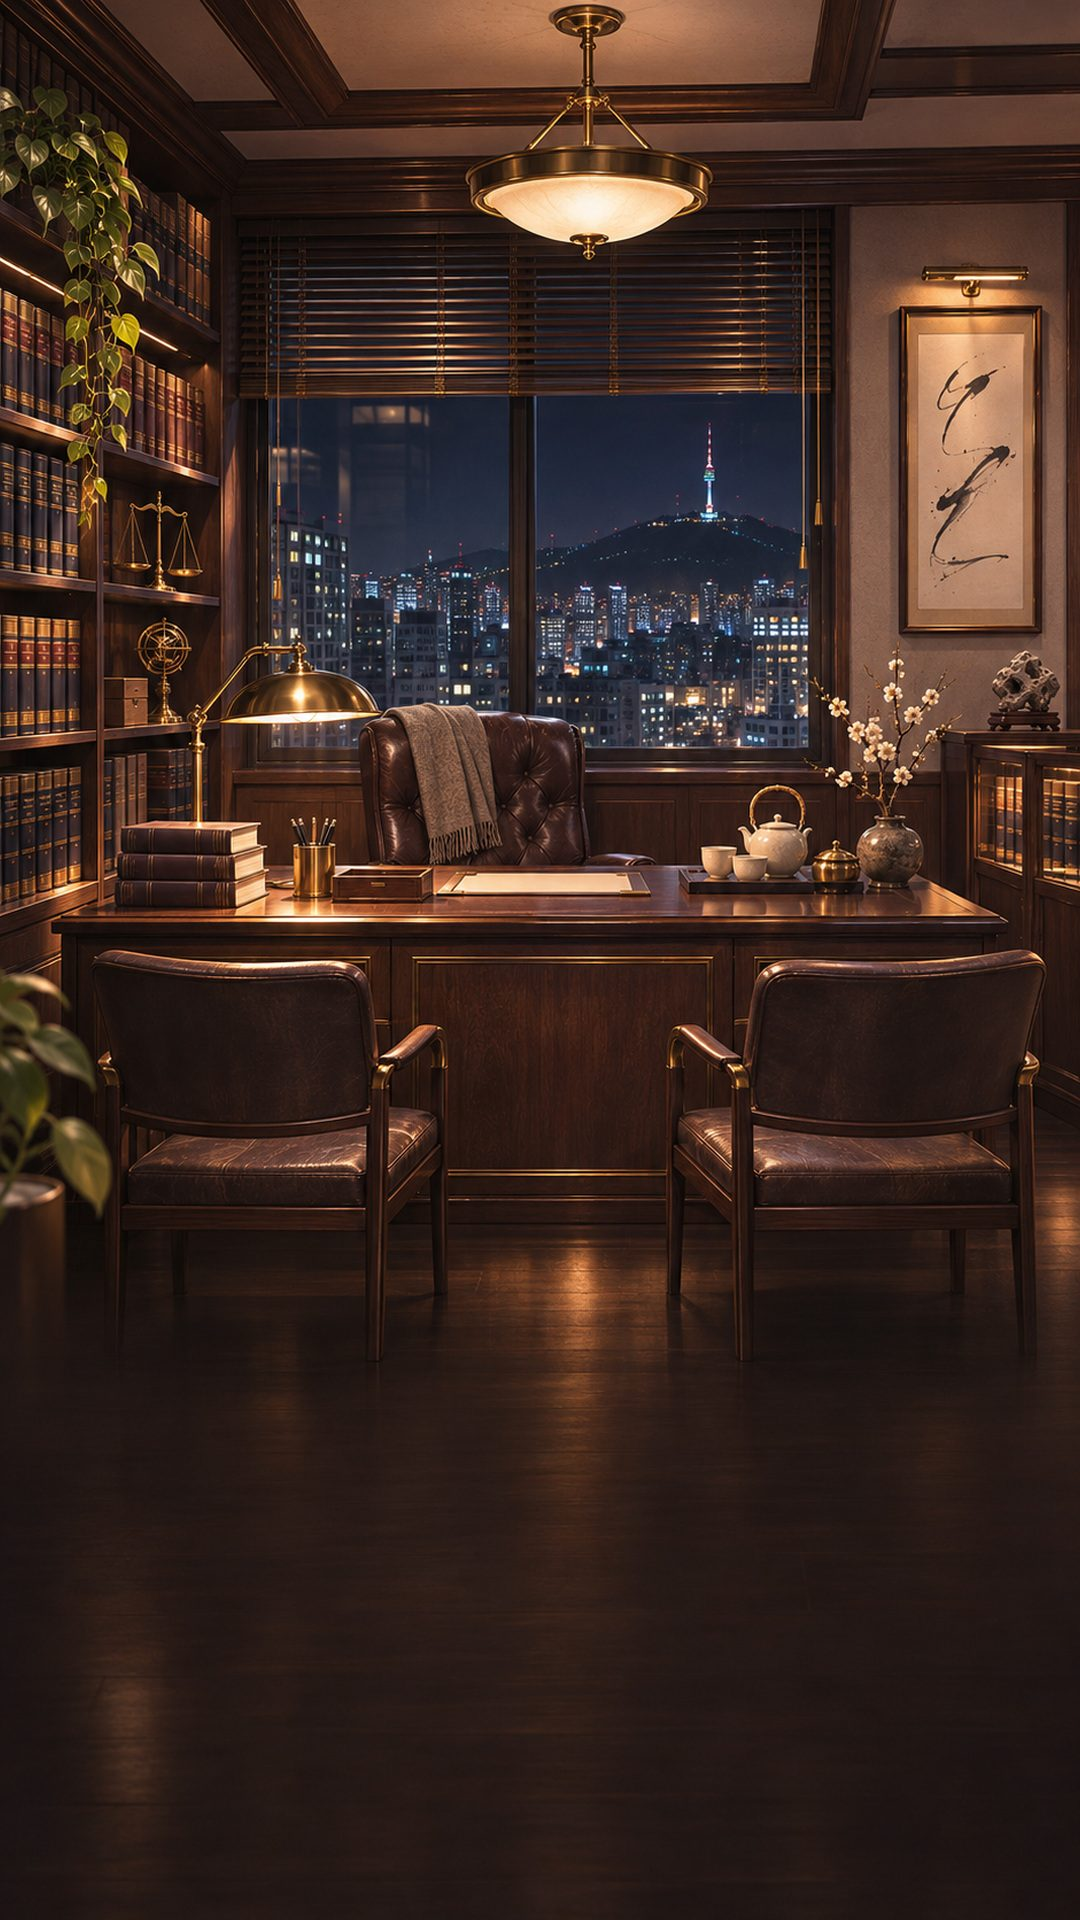
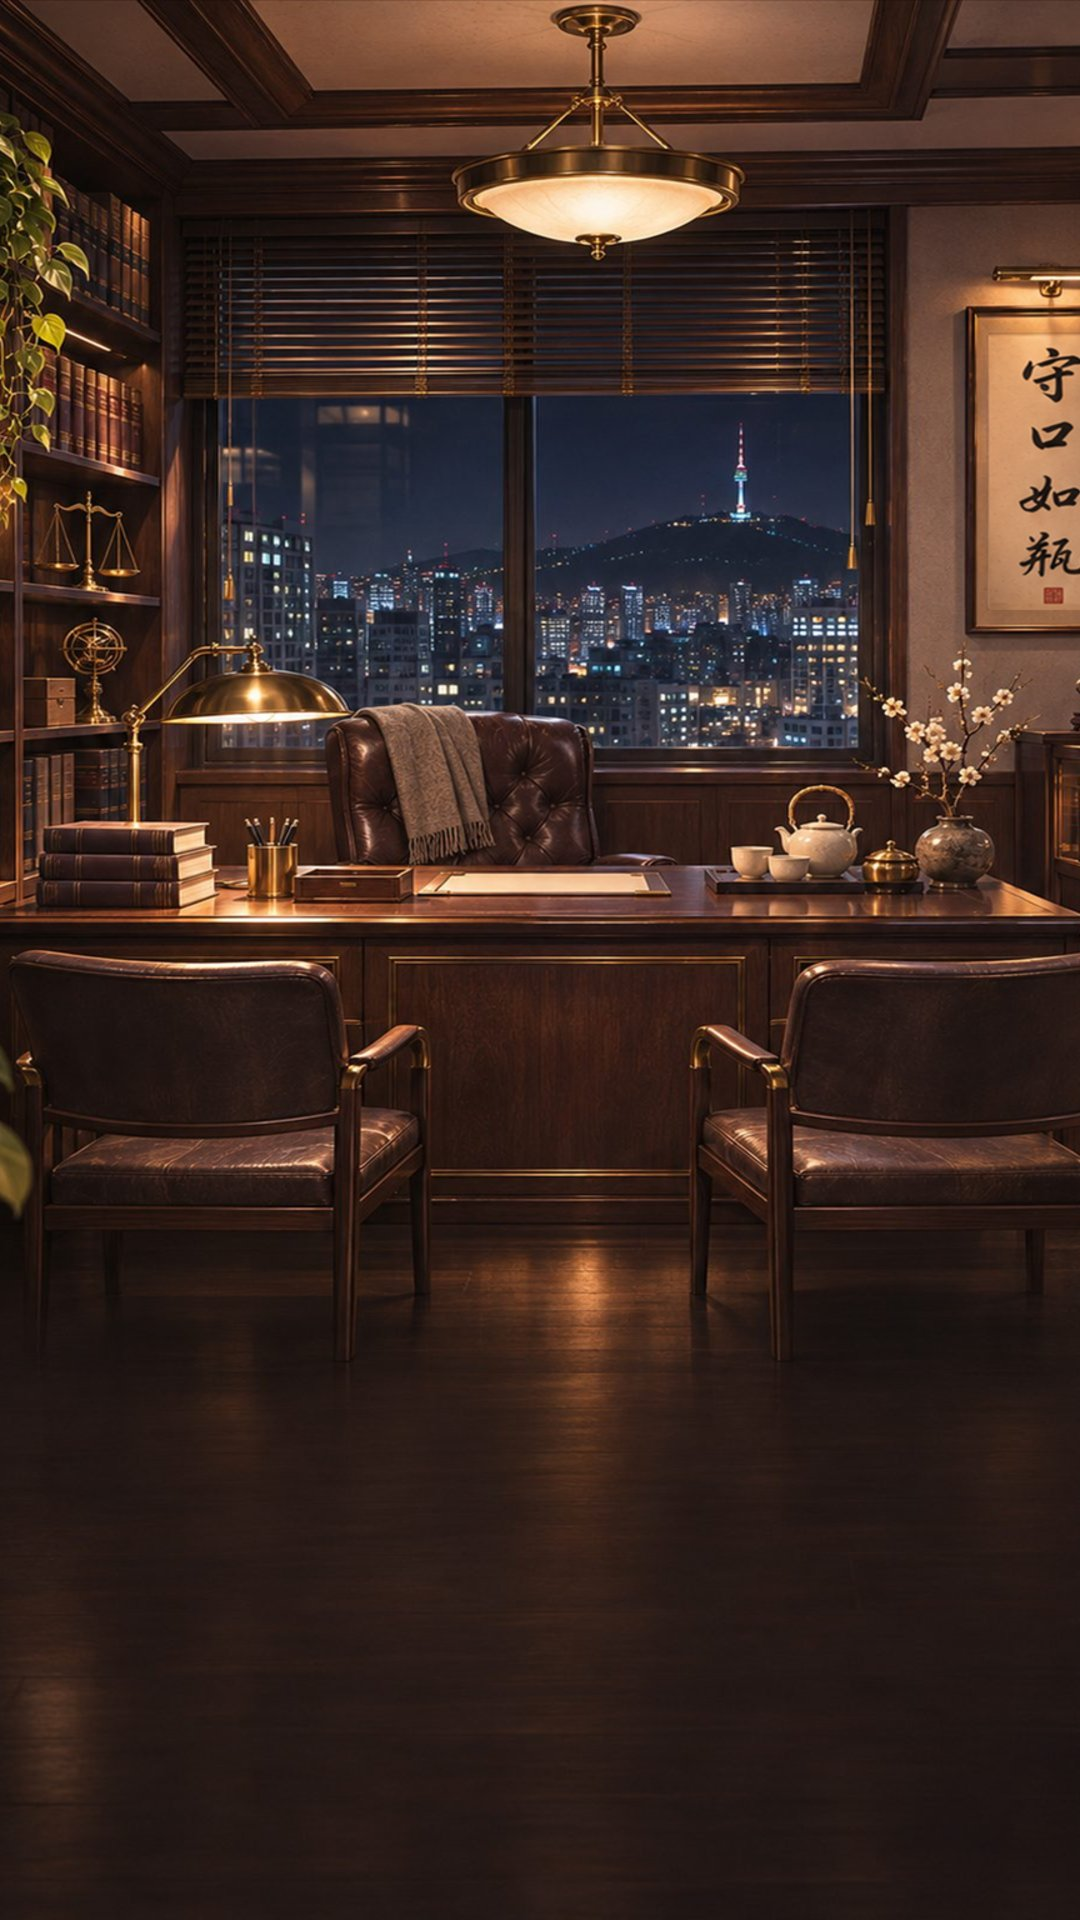
수구여병 액자 그림 두 장 교체, 회상 장면에서 대화 상대 얼굴 숨김

diff --git a/sw.js b/sw.js
@@ -2,7 +2,7 @@
 // 앱(화면 파일)은 배포할 때마다 새 판으로 바꾸고, 그림(assets/)은 버전과 상관없는 따로 된 저장소에 둔다.
 // 그래서 배포해도 이미 받은 그림은 다시 받지 않는다. 그림은 저장해 둔 것을 바로 보여 주고, 뒤에서 바뀌었는지만 확인한다.
 // 같은 이름의 그림을 다시 그려 바꿨을 때도 다음 실행부터 새 그림이 보인다(뒤에서 확인한 결과).
-const CACHE = "truth-v1796130000000";
+const CACHE = "truth-v1796140000000";
 const IMG = "truth-img-3";
 const PRECACHE = ["./","./index.html","./story.html","./manifest.webmanifest","./icon-192.png","./icon-512.png","./apple-touch-icon.png","./assets/court-2.webp","./assets/end-close-f.jpg","./assets/end-close-m.jpg","./assets/end-top-f.jpg","./assets/end-top-m.jpg","./assets/frame-choice.png","./assets/frame-modal.webp","./assets/hero-f.webp","./assets/hero-m.webp","./assets/judge-close.webp","./assets/judge.webp","./assets/office-0-f.jpg","./assets/office-0-m.jpg","./assets/office-1-f.jpg","./assets/office-1-m.jpg","./assets/office-2-f.jpg","./assets/office-2-m.jpg","./assets/office-3-f.jpg","./assets/office-3-m.jpg","./assets/opp.webp","./assets/pros.webp","./assets/stamp-lose.png","./assets/stamp-win.png","./assets/title.webp","./assets/cut/f-c1.webp","./assets/cut/f-c2.webp","./assets/cut/f-c3.webp","./assets/cut/f-c4.webp","./assets/cut/f-c5.webp","./assets/cut/f-c6.webp","./assets/cut/f-c7.webp","./assets/cut/f-c8.webp","./assets/cut/f-chef.webp","./assets/cut/f-exec.webp","./assets/cut/f-pd.webp","./assets/cut/f-ptf.webp","./assets/cut/f-ptm.webp","./assets/cut/f-pw.webp","./assets/cut/f-rep.webp","./assets/cut/f-vic.webp","./assets/cut/m01.webp","./assets/cut/m02.webp","./assets/cut/m03.webp","./assets/cut/m04.webp","./assets/cut/m05.webp","./assets/cut/m06.webp","./assets/cut/m07.webp","./assets/cut/m08.webp","./assets/cut/m09.webp","./assets/cut/m10.webp","./assets/cut/m11.webp","./assets/cut/m12.webp","./assets/cut/m13.webp","./assets/cut/m14.webp","./assets/cut/m15.webp","./assets/cut/m16.webp","./assets/cut/m18.webp","./assets/cut/m19.webp","./assets/cut/m20.webp","./assets/cut/m21.webp","./assets/cut/m22.webp","./assets/cut/m23.webp","./assets/cut/m24.webp","./assets/cut/m25.webp","./assets/cut/m26.webp","./assets/cut/m27.webp","./assets/cut/m28.webp","./assets/cut/m29.webp","./assets/cut/m30.webp","./assets/cut/n20f1.webp","./assets/cut/n20f2.webp","./assets/cut/n20f3.webp","./assets/cut/n20f4.webp","./assets/cut/n20m1.webp","./assets/cut/n20m2.webp","./assets/cut/n20m3.webp","./assets/cut/n20m4.webp","./assets/cut/n30f1.webp","./assets/cut/n30f2.webp","./assets/cut/n30f3.webp","./assets/cut/n30f4.webp","./assets/cut/n30m1.webp","./assets/cut/n30m2.webp","./assets/cut/n30m3.webp","./assets/cut/n30m4.webp","./assets/cut/n40f1.webp","./assets/cut/n40f2.webp","./assets/cut/n40f3.webp","./assets/cut/n40f4.webp","./assets/cut/n40m1.webp","./assets/cut/n40m2.webp","./assets/cut/n40m3.webp","./assets/cut/n40m4.webp","./assets/cut/n50f1.webp","./assets/cut/n50f2.webp","./assets/cut/n50f3.webp","./assets/cut/n50f4.webp","./assets/cut/n50m1.webp","./assets/cut/n50m2.webp","./assets/cut/n50m3.webp","./assets/cut/n50m4.webp","./assets/cut/n60f1.webp","./assets/cut/n60f2.webp","./assets/cut/n60f3.webp","./assets/cut/n60f4.webp","./assets/cut/n60m1.webp","./assets/cut/n60m2.webp","./assets/cut/n60m3.webp","./assets/cut/n60m4.webp","./assets/expr/hero-f_confident.webp","./assets/expr/hero-f_flustered.webp","./assets/expr/hero-f_neutral.webp","./assets/expr/hero-f_relieved.webp","./assets/expr/hero-f_serious.webp","./assets/expr/hero-m_confident.webp","./assets/expr/hero-m_flustered.webp","./assets/expr/hero-m_neutral.webp","./assets/expr/hero-m_relieved.webp","./assets/expr/hero-m_serious.webp","./assets/expr/opponent_confident.webp","./assets/expr/opponent_flustered.webp","./assets/expr/opponent_neutral.webp","./assets/expr/opponent_serious.webp","./assets/expr/prosecutor_confident.webp","./assets/expr/prosecutor_flustered.webp","./assets/expr/prosecutor_neutral.webp","./assets/expr/prosecutor_serious.webp","./assets/ops-end/grade-s-m.jpg","./assets/ops-end/grade-s-f.jpg","./assets/ops-end/grade-a-m.jpg","./assets/ops-end/grade-a-f.jpg","./assets/ops-end/grade-b-m.jpg","./assets/ops-end/grade-b-f.jpg","./assets/ops-end/grade-c-m.jpg","./assets/ops-end/grade-c-f.jpg","./assets/ops-end/grade-d-m.jpg","./assets/ops-end/grade-d-f.jpg","./assets/ops-end/newspaper.jpg","./assets/op/o1-f.webp","./assets/op/o1-m.webp","./assets/op/o2-f.webp","./assets/op/o2-m.webp","./assets/op/o3.webp","./assets/op/s1.webp","./assets/op/s2.webp","./assets/op/s3.webp","./assets/staff/investigator_female_20s.webp","./assets/staff/investigator_male_30s.webp","./assets/staff/investigator_male_40s.webp","./assets/staff/lawyer_female_20s.webp","./assets/staff/lawyer_female_30s.webp","./assets/staff/lawyer_female_30s_02.webp","./assets/staff/lawyer_female_30s_03.webp","./assets/staff/lawyer_female_30s_04.webp","./assets/staff/lawyer_male_20s_01.webp","./assets/staff/lawyer_male_30s.webp","./assets/staff/lawyer_male_30s_02.webp","./assets/staff/lawyer_male_30s_03.webp","./assets/staff/lawyer_male_30s_04.webp","./assets/staff/manager_female_40s.webp","./assets/staff/manager_male_30s.webp","./assets/staff/manager_male_50s.webp","./assets/staff/secretary_female_20s_01.webp","./assets/staff/secretary_female_20s_02.webp","./assets/staff/secretary_male_30s.webp"];
 const isAsset = u => /\/assets\//.test(new URL(u, self.location.href).pathname);

diff --git a/story.html b/story.html
@@ -734,7 +734,7 @@ function pcLog() {
 function say(lines, then, who = null) {
   lines = lines.slice();
   if (!lines.length) return then();
-  let i = 0, click = null, pic = null;
+  let i = 0, click = null, pic = null, fb = false;
   const show = () => {
     if (i >= lines.length) { document.onclick = null; return then(); }
     // 음악 표시 줄("♪sad", "♪tense2", "♪normal"): 곡만 바꾸고 화면에는 띄우지 않는다
@@ -742,14 +742,14 @@ function say(lines, then, who = null) {
     // 번쩍임 표시 줄("⚡white", "⚡red"): 화면만 번쩍이고 넘어간다
     if (mk[0] === "⚡") { flash(mk.slice(1) || "white"); i++; return show(); }
     // 회상 표시 줄: "◐제목|부제|배경" → 검은 화면에 제목을 띄우고 꿈 화면(바랜 색)으로, "◑" → 원래 배경으로 돌아옴
-    if (mk[0] === "◐") { const [tt, sb, bk] = mk.slice(1).split("|"); i++; say.prevBg = lastBg; return fade(() => { document.documentElement.classList.add("dream"); setBg(bgOf(bk)); show(); document.onclick = click; }, { title: tt, sub: sb || "", slow: true }); }
+    if (mk[0] === "◐") { const [tt, sb, bk] = mk.slice(1).split("|"); i++; fb = true; say.prevBg = lastBg; return fade(() => { document.documentElement.classList.add("dream"); setBg(bgOf(bk)); show(); document.onclick = click; }, { title: tt, sub: sb || "", slow: true }); }
     // "◎배경": 꿈·회상 화면은 그대로 두고 배경만 바꾼다
     if (mk[0] === "◎") { const bk = mk.slice(1); i++; return fade(() => { setBg(bgOf(bk)); show(); document.onclick = click; }); }
-    if (mk[0] === "◑") { i++; return fade(() => { document.documentElement.classList.remove("dream"); setBg(say.prevBg || lastBg); show(); document.onclick = click; }); }
+    if (mk[0] === "◑") { i++; fb = false; return fade(() => { document.documentElement.classList.remove("dream"); setBg(say.prevBg || lastBg); show(); document.onclick = click; }); }
     // 그림 표시 줄("▣ev/h1-dongha.webp"): 다음 대사부터 얼굴 자리에 그림을 띄운다. "▣"만 쓰면 그림을 내린다
     if (mk[0] === "▣") { pic = mk.slice(1) || null; i++; return show(); }
     if (mk[0] === "♪") { const m = mk.slice(1) === "normal" ? themeOf() : mk.slice(1); if (TRACKS[m]) bgm(m, true); i++; return show(); }
-    const [n, t0, f, cont] = lines[i], face = f || who;
+    const [n, t0, f, cont] = lines[i], face = f || (fb ? null : who); // 회상 안에서는 지금 대화 상대 얼굴을 띄우지 않는다
     let t = t0;
     if (n && G && !cont) G.log.push([n, t]);
     view(`${G && G.prologue ? '<div class="top"></div>' : topBar()}<div class="stage${pic ? " picon" : ""}">${pic ? `<img class="pic" src="${A}story/${pic}" alt="">` : face ? `<img class="who" src="${cut(face)}" alt="">` : ""}</div>
@@ -1914,7 +1914,7 @@ CH.f1 = { hero: "f", tags: G => [G.doneIds.pot && "pot", G.doneIds.sold && "sold
     ["고소인의 처벌 의사에 대하여|고소인이 상자만 찾으면 처벌은 원하지 않는다고 했대요.", ["…그래요?", [null, "방재호의 손가락이 무릎 위에서 잠깐 멈췄다."], "그게 어디 있는지 알면 제가 여기 앉아 있겠어요. 회사에서도 못 찾은 걸요.", "그 상자가 그렇게 급한가. 경찰서에서도 얼굴이 하얗더니."], [], ["t:stmt"]]],
   pre: [2, 4, 5],
   hireLine: ["고맙습니다, 변호사님.", "약식명령 받은 거랑 회사에 낸 경위서, 여기 다 가져왔습니다.", [null, "내게 고맙다고 인사하는 방재호의 얼굴을 보자 그 사람이 떠올랐다."], // 윤서연 아버지 회상(11-20): 이름표는 그 사람. 정체는 여주 4장 회상에서 드러난다
-    [null, "◐||f4-dad-kitchen"], [null, "식탁 위에 빚 독촉장이 쌓여 있었다. 엄마는 방에서 나오지 않았다."], ["윤서연", "당신이 우리 집안을 파괴했어."], ["그 사람", "미안하다, 서연아.", A + "cut/f-father.webp"], ["윤서연", "난 당신을 절대 용서하지 않아. 두고 봐."], [null, "◑"], [null, "그 사람도 늘 저런 얼굴로 미안하다고 했다. 미안하다는 말만 하다가 빚만 남기고 갔다. 짜증 나는 사람이었지."]],
+    [null, "◐||f4-dad-kitchen"], [null, "식탁 위에 빚 독촉장이 쌓여 있었다. 엄마는 방에서 나오지 않았다."], ["윤서연", "당신이 우리 집안을 파괴했어.", A + "hero-f.webp"], ["그 사람", "미안하다, 서연아.", A + "cut/f-father.webp"], ["윤서연", "난 당신을 절대 용서하지 않아. 두고 봐.", A + "hero-f.webp"], [null, "◑"], [null, "그 사람도 늘 저런 얼굴로 미안하다고 했다. 미안하다는 말만 하다가 빚만 남기고 갔다. 짜증 나는 사람이었지."]],
   refuseLine: "…명단에서 넘어온 사건이다. 돌려보낼 곳도 없는 사람이다. 맡기로 했다.",
   cards0: {
     gong: { n: "공소장", d: "배송 중이던 상자 1개를 가져가 절취. 피해품 미발견.", img: "ev/f1-gong.webp" },
